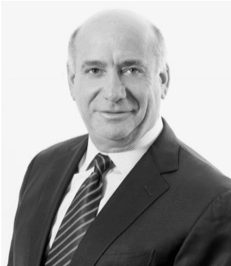
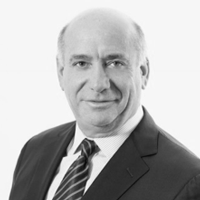
Add new management photos and change Linkedin/email

diff --git a/style.css b/style.css
@@ -3614,8 +3614,8 @@ h2 {
     font-size: 15px;
     margin-bottom: 3px; }
   .page-template-about_team .about-team-single-team-member-container img {
-    width: 235px;
-    height: 268px;
+    width: 200px;
+    height: 200px;
     margin-top: 10px; }
 
 .page-template-about_team .about-team-name-and-position h3 {

diff --git a/sass/_about.scss b/sass/_about.scss
@@ -62,8 +62,8 @@
       margin-bottom: 3px;
     }
     img {
-      width: 235px;
-      height: 268px;
+      width: 200px;
+      height: 200px;
       margin-top: 10px;
     }
   }

diff --git a/about_team.php b/about_team.php
@@ -34,7 +34,7 @@ get_header(); ?>
 							<strong>CONTACT
 								<br>
 							</strong>
-							<a href="mailto:isutton@valosmartcity.com">EMAIL</a>
+							<a href="mailto:isutton@valosmartcity.com">isutton@valosmartcity.com</a>
 						</div>
 					</div>
 					<div class="about-team-single-team-member-container terrance-dittrich">
@@ -63,8 +63,8 @@ get_header(); ?>
 							<strong>CONTACT
 								<br>
 							</strong>
-							<a href="https://www.linkedin.com/in/terry-dittrich-963a549b/" target="_blank">LINKEDIN</a>
-							<a href="mailto:tdittrich@valosmartcity.com">EMAIL</a>
+							<!-- <a href="https://www.linkedin.com/in/terry-dittrich-963a549b/" target="_blank">LINKEDIN</a> -->
+							<a href="mailto:tdittrich@valosmartcity.com">tdittrich@valosmartcity.com</a>
 						</div>
 					</div>
 					<div class="about-team-single-team-member-container alan-fogleman">
@@ -89,8 +89,8 @@ get_header(); ?>
 							<strong>CONTACT
 								<br>
 							</strong>
-							<a href="https://www.linkedin.com/in/alan-fogelman-658507b/" target="_blank">LINKEDIN</a>
-							<a href="mailto:afogelman@valosmartcity.com">EMAIL</a>
+							<!-- <a href="https://www.linkedin.com/in/alan-fogelman-658507b/" target="_blank">LINKEDIN</a> -->
+							<a href="mailto:afogelman@valosmartcity.com">afogelman@valosmartcity.com</a>
 						</div>
 					</div>
 					<div class="about-team-single-team-member-container steve-altman">
@@ -114,8 +114,8 @@ get_header(); ?>
 							<strong>CONTACT
 								<br>
 							</strong>
-							<a href="https://www.linkedin.com/in/steven-altman-lsa/" target="_blank">LINKEDIN</a>
-							<a href="mailto:saltman@valosmartcity.com">EMAIL</a>
+							<!-- <a href="https://www.linkedin.com/in/steven-altman-lsa/" target="_blank">LINKEDIN</a> -->
+							<a href="mailto:saltman@valosmartcity.com">saltman@valosmartcity.com</a>
 						</div>
 					</div>
 					<div class="about-team-single-team-member-container david-harper">
@@ -137,8 +137,8 @@ get_header(); ?>
 							<strong>CONTACT
 								<br>
 							</strong>
-							<a href="https://www.linkedin.com/in/harper/" target="_blank">LINKEDIN</a>
-							<a ref="mailto:dharper@valosmartcity.com">EMAIL</a>
+							<!-- <a href="https://www.linkedin.com/in/harper/" target="_blank">LINKEDIN</a> -->
+							<a ref="mailto:dharper@valosmartcity.com">dharper@valosmartcity.com</a>
 						</div>
 					</div>
 					<div class="about-team-single-team-member-container wanda-halpert">
@@ -161,8 +161,8 @@ get_header(); ?>
 							<strong>CONTACT
 								<br>
 							</strong>
-							<a href="https://www.linkedin.com/in/wandahalpert/" target="_blank">LINKEDIN</a>
-							<a href="mailto:whalpert@valosmartcity.com">EMAIL</a>
+							<!-- <a href="https://www.linkedin.com/in/wandahalpert/" target="_blank">LINKEDIN</a> -->
+							<a href="mailto:whalpert@valosmartcity.com">whalpert@valosmartcity.com</a>
 						</div>
 					</div>
 					<div class="about-team-single-team-member-container julio-ferreira">
@@ -190,8 +190,8 @@ get_header(); ?>
 							<strong>CONTACT
 								<br>
 							</strong>
-							<a href="https://www.linkedin.com/in/julio-ferreira-b0306928/" target="_blank">LINKEDIN</a>
-							<a ref="mailto:jferreira@valosmartcity.com">EMAIL</a>
+							<!-- <a href="https://www.linkedin.com/in/julio-ferreira-b0306928/" target="_blank">LINKEDIN</a> -->
+							<a ref="mailto:jferreira@valosmartcity.com">jferreira@valosmartcity.com</a>
 						</div>
 					</div>
 
